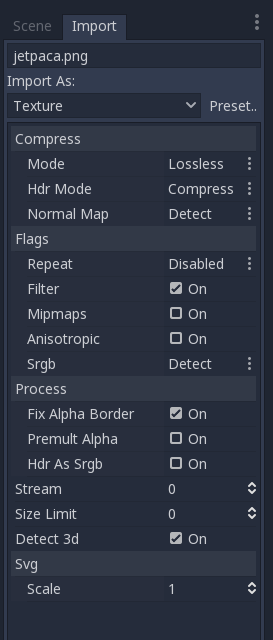
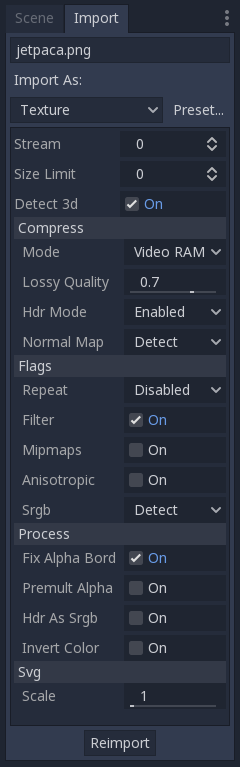
Add description to invert color

diff --git a/getting_started/workflow/assets/importing_images.rst b/getting_started/workflow/assets/importing_images.rst
@@ -100,7 +100,7 @@ Filter
 When pixels become larger than the screen pixels, this options enable linear interpolation for them. The result is a smoother (less blocky) texture. This setting can be commonly used in 2D and 3D, but it's usually disabled when making pixel perfect games.
 
 Mipmaps
--------
+~~~~~~~
 
 When pixels become smaller than the screen, mipmaps kick in. This helps reduce the grainy effect when shrinking the textures. Keep in mind that, in older hardware
 (GLES2, mainly mobile), there are some requirements to use mipmaps:
@@ -149,6 +149,10 @@ HDR as SRGB
 
 Some few HDR files are broken and contain SRGB color data. It is advised to not use them but, in the worst case, toggling this option on will make them look right.
 
+Invert Color
+~~~~~~~~~~~~
+
+Reverses the image's color. This is useful for example to convert a height map generated by external programs to depth map to use with :ref:`doc_spatial_material`.
 
 Detect 3D
 ---------
